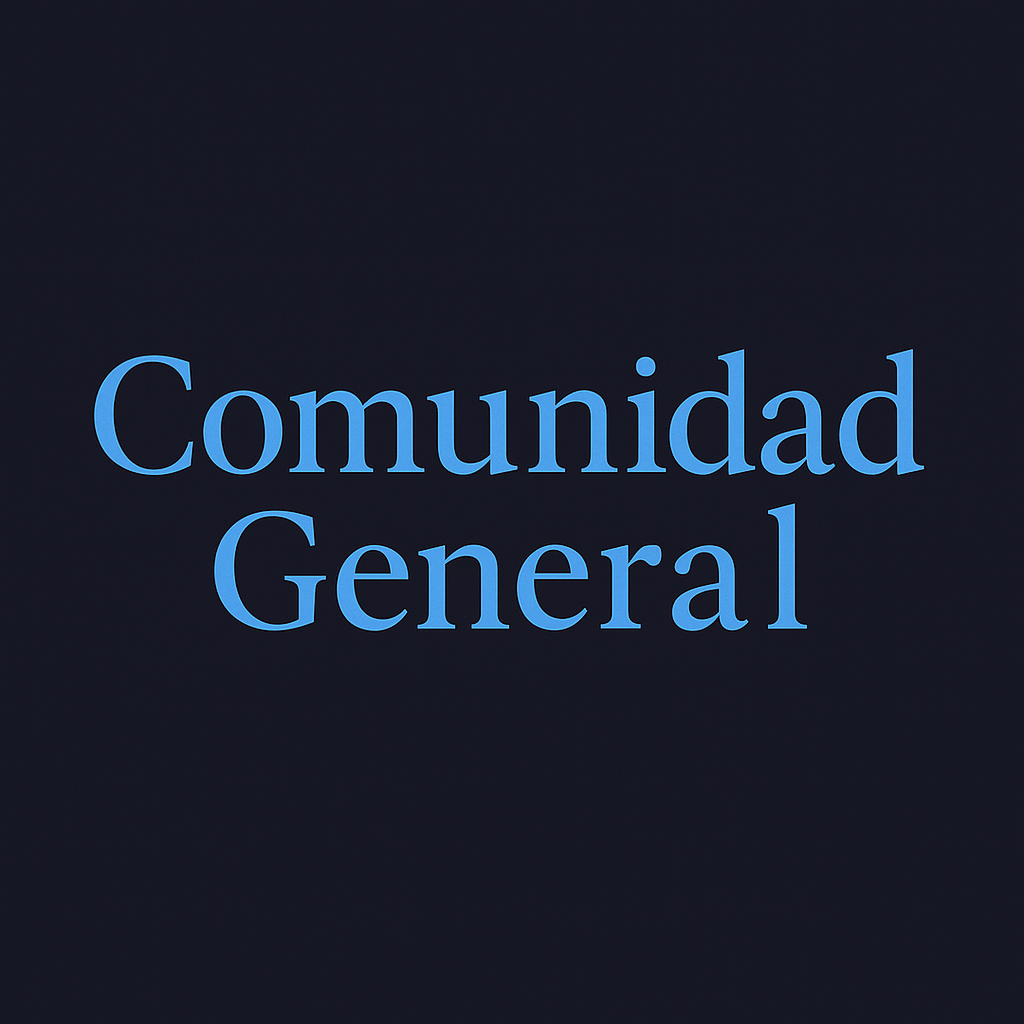
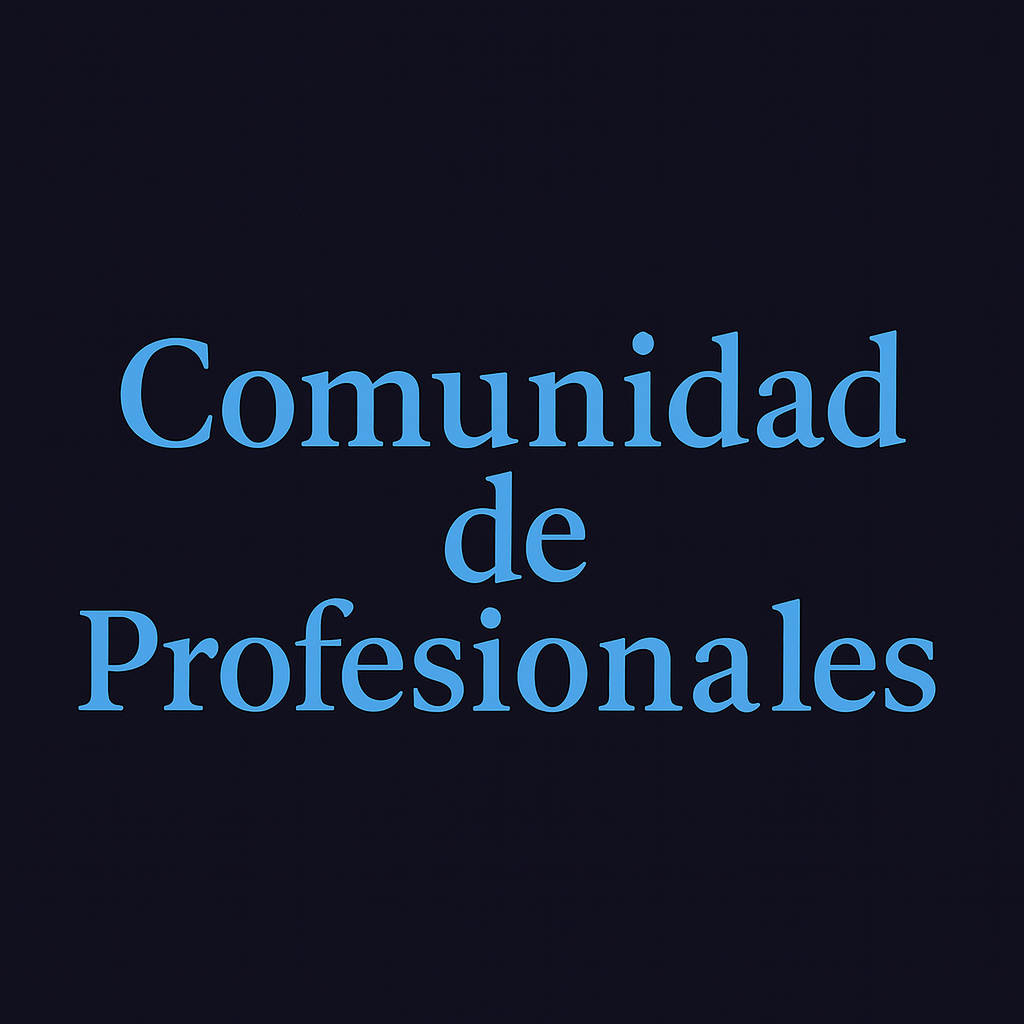
Actualiza la lista de comunidades en la página de comunidad, cambiando los títulos de las comunidades existentes y añadiendo una nueva comunidad especializada en RBA. Se actualizan las imágenes correspondientes para reflejar estos cambios.

Changed region(s): [[0.0625, 0.3125, 0.9375, 0.7188]]

diff --git a/src/Community/community.js b/src/Community/community.js
@@ -177,8 +177,9 @@ class CommunityPage {
 
         // Grid Discover (solo las dos comunidades principales)
         this.communities = [
-            { id:0, rank:0, title:'Comunidad General', category:'general', members:'1.2k', price:'Free', desc:'Comunidad principal para todos los miembros. Comparte experiencias, haz preguntas y conecta con otros estudiantes.', thumb:'./images/comunidad-general.png', icon:'fas fa-globe' },
-            { id:-1, rank:-1, title:'Amigos, Directores y Empresarios', category:'negocios', members:'856', price:'Free', desc:'Comunidad para mentes abiertas. Explora nuevas ideas, comparte perspectivas únicas y expande tu horizonte mental.', thumb:'./images/openminder.png', icon:'fas fa-lightbulb' }
+            { id:0, rank:0, title:'Comunidad de Profesionales', category:'general', members:'1.2k', price:'Free', desc:'Comunidad principal para todos los miembros. Comparte experiencias, haz preguntas y conecta con otros estudiantes.', thumb:'./images/comunidad-general.png', icon:'fas fa-globe' },
+            { id:-1, rank:-1, title:'Comunidad SIF ICAP', category:'negocios', members:'856', price:'Free', desc:'Comunidad para mentes abiertas. Explora nuevas ideas, comparte perspectivas únicas y expande tu horizonte mental.', thumb:'./images/openminder.png', icon:'fas fa-lightbulb' },
+            { id:-2, rank:-2, title:'Comunidad RBA', category:'general', members:'432', price:'Free', desc:'Comunidad especializada en RBA. Conecta con profesionales que comparten tu interés en esta área específica.', thumb:'./images/comunidad-RBA.png', icon:'fas fa-users' }
         ];
 
         // (sin posts/leaderboard)
